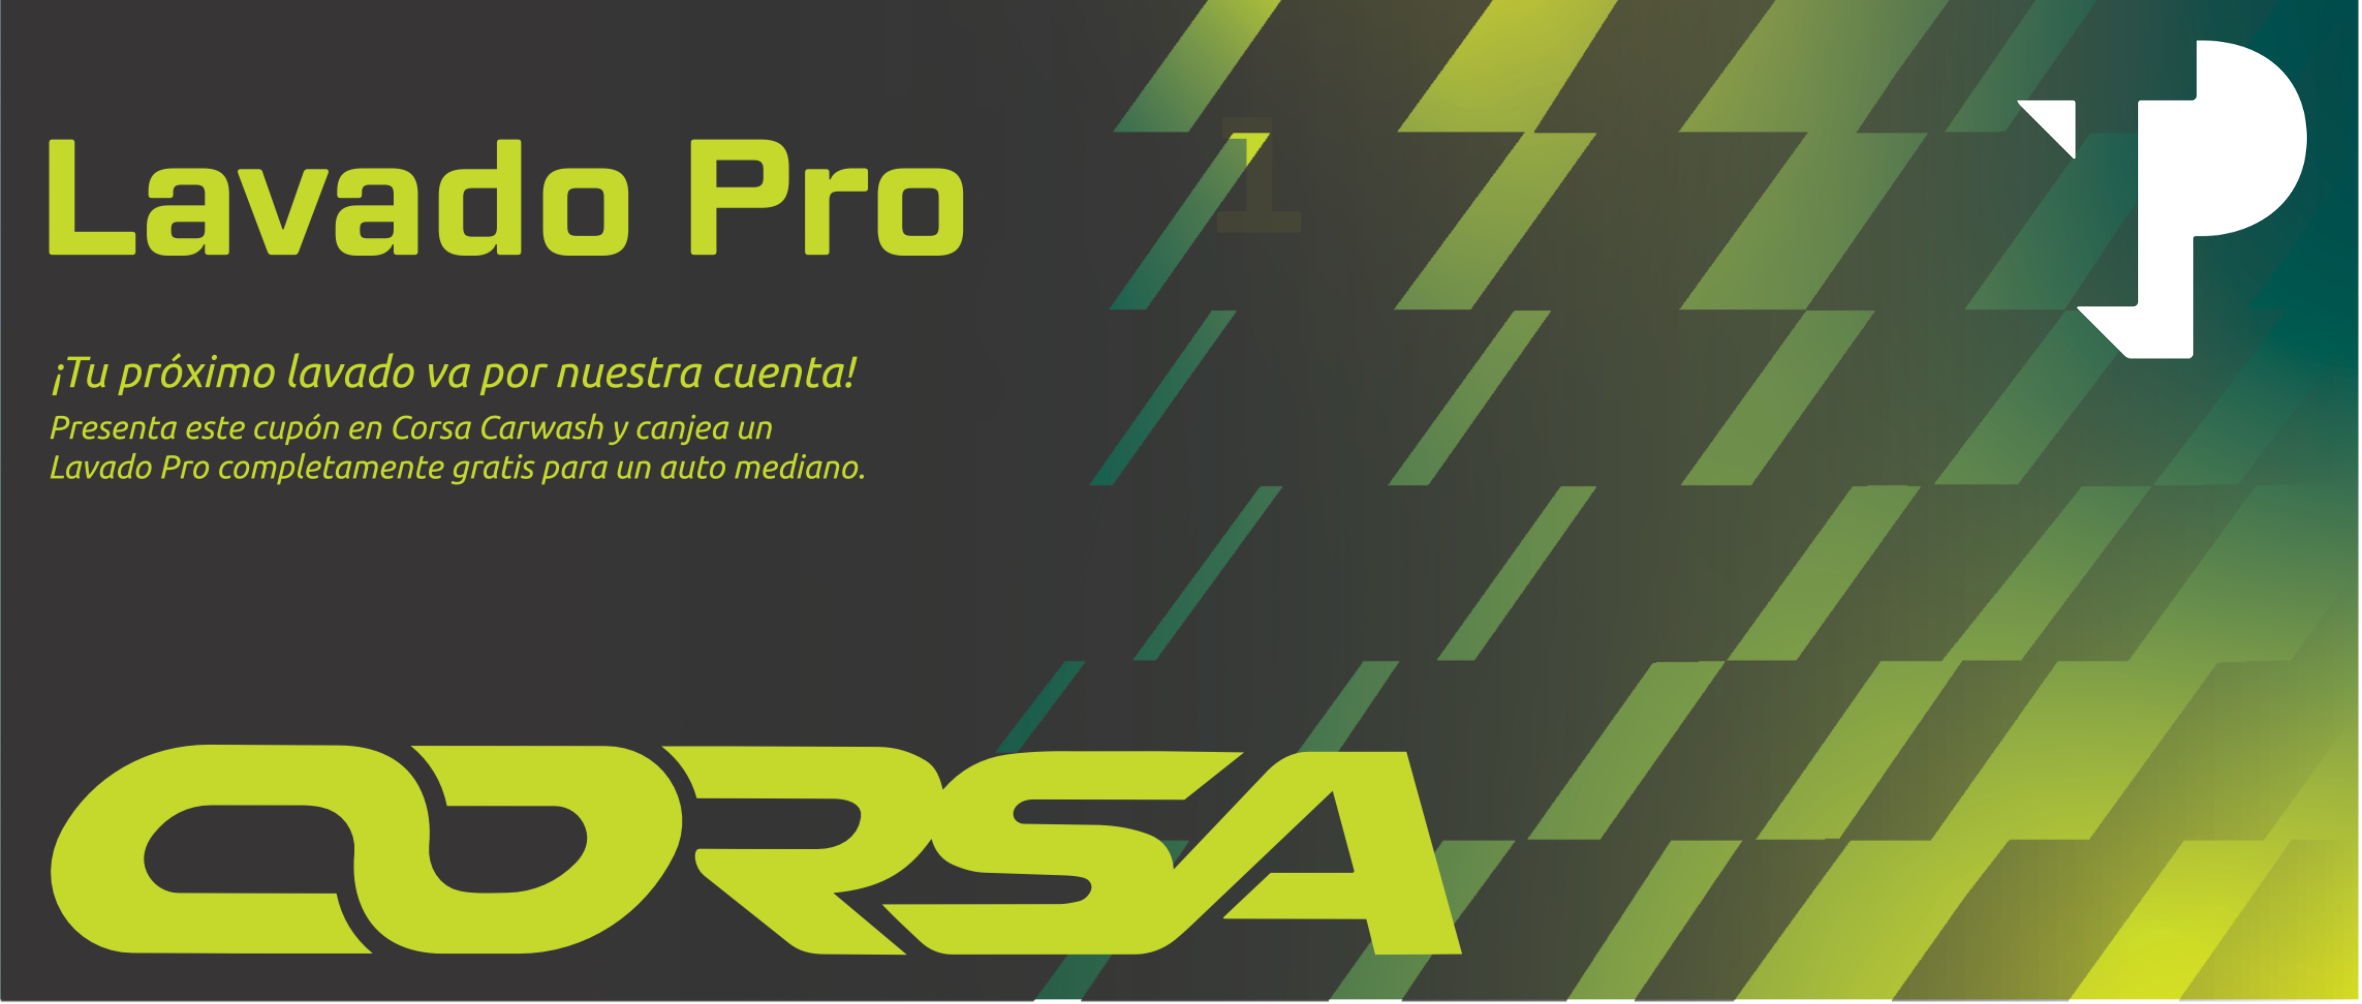
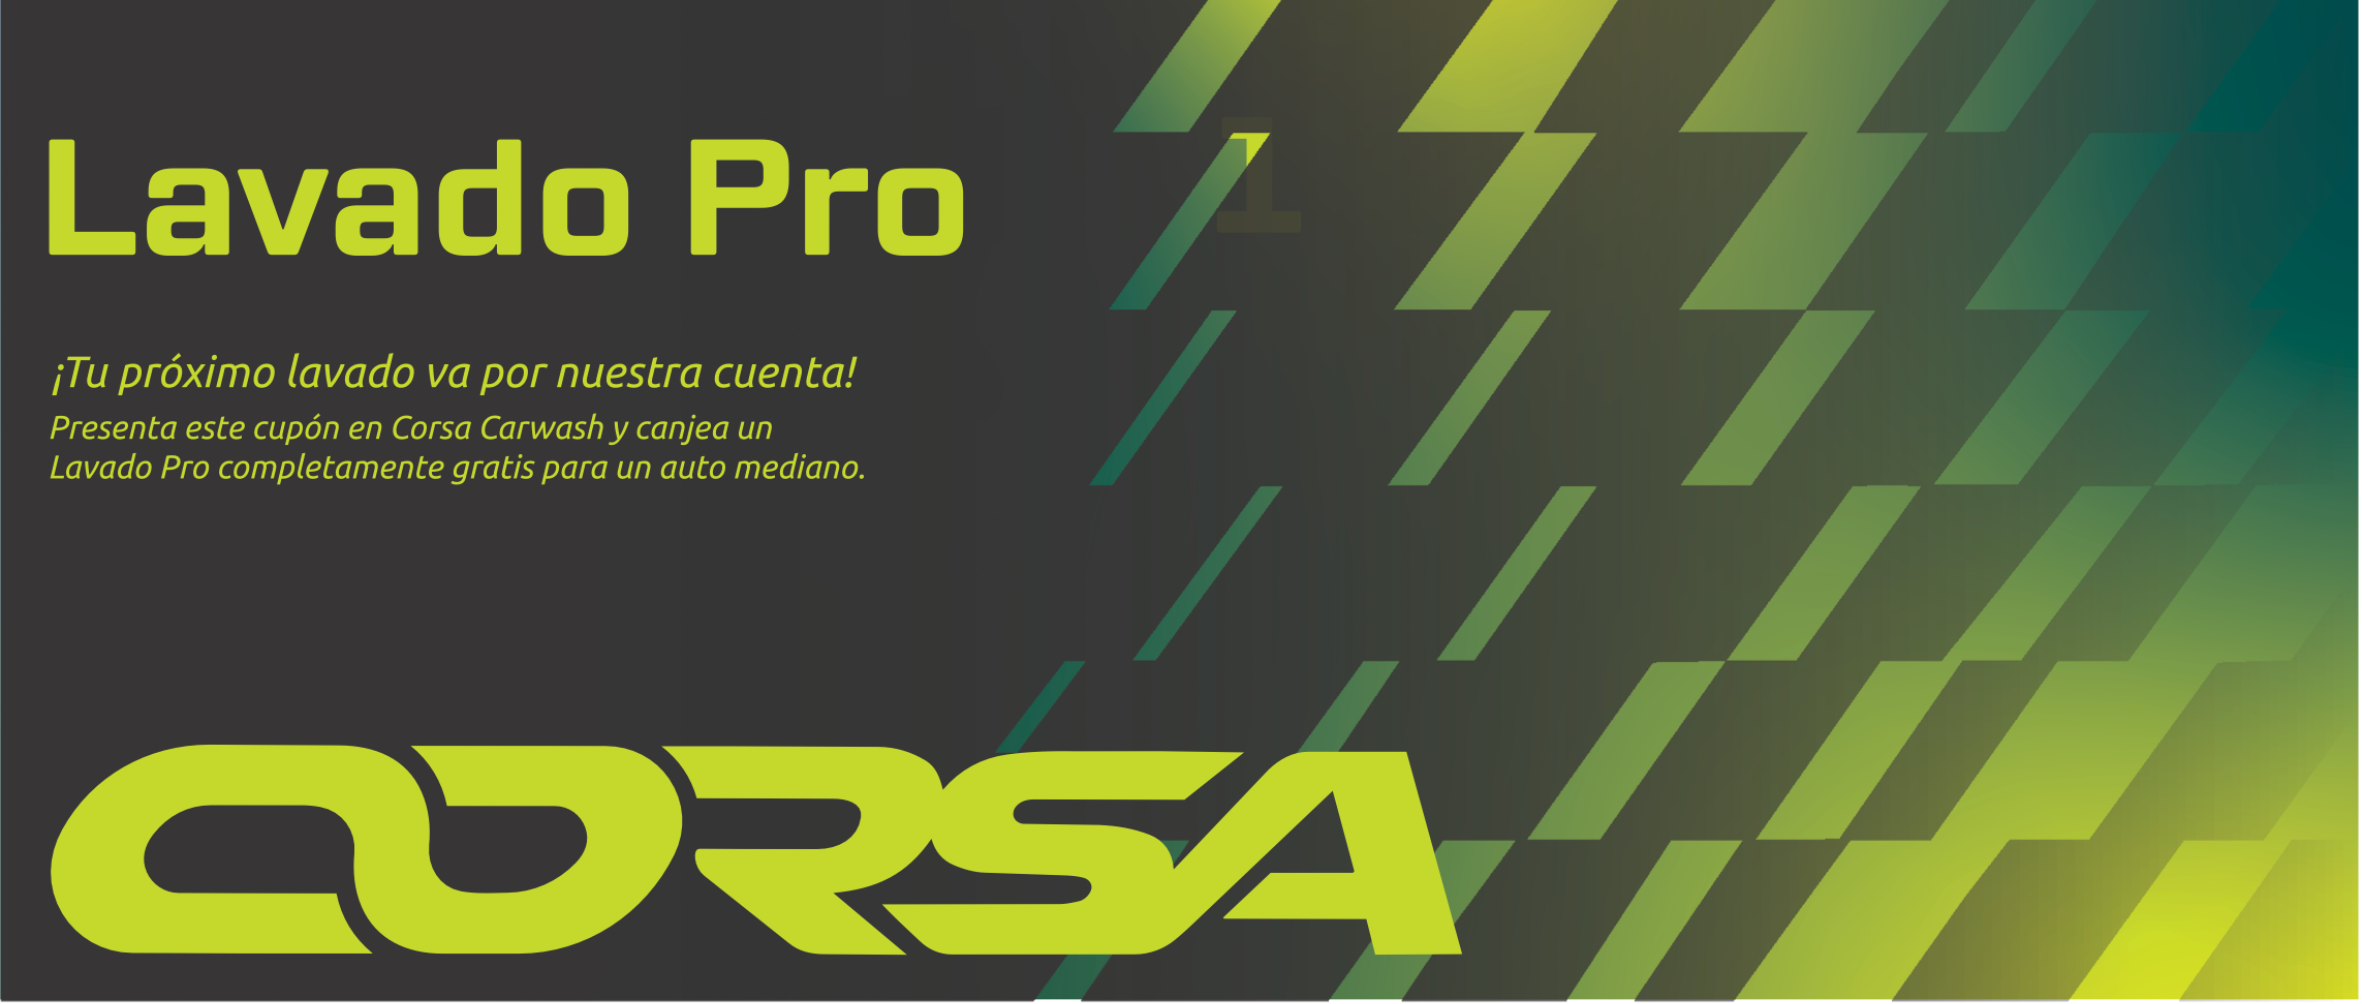
Use the Teleperformance coupon art only on Teleperformance coupons
The art loaded as the coupon background carries the Teleperformance logo and
was printed on every customer's coupons. It moves to
fondo-cupon-teleperformance.png and fondo-cupon.png becomes the generic art
without a customer logo.

The art now follows the batch holder (the beneficiary since 0084) through
customers.fondo_cupon, exposed by v_vouchers and cuponera_cupones_de, so the
POS, the Cupones screen, the portal and the delivery email all agree. Missing
or invalid values fall back to the generic art, so no customer can end up
with another's logo. The migration assigns the TP art only if exactly one
customer matches "teleperformance" and warns otherwise.

Changed region(s): [[0.8345, 0.0309, 0.989, 0.3705]]

diff --git a/src/lib/vouchers/voucherDocument.ts b/src/lib/vouchers/voucherDocument.ts
@@ -15,10 +15,17 @@ import type { VoucherRow } from '../../services/vouchers.service'
 /** Lo mínimo de un cupón para imprimirlo: lo cumplen la fila de Cupones y la del portal. */
 export type CuponImprimible = Pick<VoucherRow,
   'id' | 'code' | 'sequence_number' | 'validation_token' | 'service_name' | 'size' |
-  'includes_aspirado' | 'is_gift' | 'unit_value' | 'customer_name' | 'batch_id'>
+  'includes_aspirado' | 'is_gift' | 'unit_value' | 'customer_name' | 'batch_id'> & {
+  /** Arte propio del titular (0085). Null o ausente = arte genérico. */
+  fondo_cupon?: string | null
+}
 
 /**
- * Arte de fondo del cupón. Va en public/ y cubre la tarjeta entera
+ * Arte GENÉRICO de fondo del cupón: el de todos los clientes, sin logo de
+ * ninguno. Un cliente con arte propio (p. ej. Teleperformance) lo trae en
+ * `fondo_cupon`, que sale de customers.fondo_cupon del titular del lote.
+ *
+ * El arte va en public/ y cubre la tarjeta entera
  * (200 × 85 mm, 2362 × 1004 px a 300 dpi). El arte trae la marca, el servicio
  * y la leyenda, así que el cupón sólo imprime encima lo variable: aspirado y
  * titular a la izquierda, y en el talón una tarjeta blanca con número, QR y
@@ -26,6 +33,16 @@ export type CuponImprimible = Pick<VoucherRow,
  * está, queda el gris oscuro del arte para que el texto claro se siga leyendo.
  */
 export const FONDO_CUPON = '/cupones/fondo-cupon.png'
+
+/**
+ * El fondo de un cupón. La ruta va dentro del CSS, así que sólo se acepta un
+ * archivo de /cupones/ (la base lo exige también); cualquier otra cosa cae al
+ * genérico, nunca al arte de otro cliente.
+ */
+export function fondoDeCupon(v: Pick<CuponImprimible, 'fondo_cupon'>): string {
+  const f = v.fondo_cupon
+  return f && /^\/cupones\/[a-z0-9-]+\.png$/.test(f) ? f : FONDO_CUPON
+}
 
 /**
  * `base` es el origen de la app (https://…). En el navegador sale solo; el
@@ -65,7 +82,7 @@ function qrSrc(data: string): string {
  */
 function voucherCard(v: CuponImprimible, base?: string): string {
   return `
-  <section class="voucher">
+  <section class="voucher" style="background-image: url('${esc(origen(base) + fondoDeCupon(v))}')">
     <div class="left">
       <div class="includes">
         ${v.includes_aspirado
@@ -124,7 +141,9 @@ export function buildVouchersHTML(vouchers: CuponImprimible[], unico = false, op
     height: 85mm; display: flex;
     border-radius: 3mm;
     overflow: hidden; margin-bottom: 4mm;
-    background: #383838 url('${base}${FONDO_CUPON}') center / cover no-repeat;
+    /* La imagen la pone cada cupón (fondoDeCupon): depende del titular. */
+    background-color: #383838; background-position: center;
+    background-size: cover; background-repeat: no-repeat;
   }
   .voucher:last-child { margin-bottom: 0; }
 

diff --git a/api/correo.js b/api/correo.js
@@ -963,6 +963,10 @@ function normalizarResumen(r) {
 
 // src/lib/vouchers/voucherDocument.ts
 var FONDO_CUPON = "/cupones/fondo-cupon.png";
+function fondoDeCupon(v) {
+  const f = v.fondo_cupon;
+  return f && /^\/cupones\/[a-z0-9-]+\.png$/.test(f) ? f : FONDO_CUPON;
+}
 function origen(base) {
   if (base) return base.replace(/\/$/, "");
   return typeof window !== "undefined" ? window.location.origin : "";
@@ -982,7 +986,7 @@ function qrSrc(data) {
 }
 function voucherCard(v, base) {
   return `
-  <section class="voucher">
+  <section class="voucher" style="background-image: url('${esc4(origen(base) + fondoDeCupon(v))}')">
     <div class="left">
       <div class="includes">
         ${v.includes_aspirado ? '<span class="pill">Incluye aspirado de interiores</span>' : '<span class="pill pill-muted">Sin aspirado</span>'}
@@ -1029,7 +1033,9 @@ function buildVouchersHTML(vouchers, unico = false, opciones = {}) {
     height: 85mm; display: flex;
     border-radius: 3mm;
     overflow: hidden; margin-bottom: 4mm;
-    background: #383838 url('${base}${FONDO_CUPON}') center / cover no-repeat;
+    /* La imagen la pone cada cup\xF3n (fondoDeCupon): depende del titular. */
+    background-color: #383838; background-position: center;
+    background-size: cover; background-repeat: no-repeat;
   }
   .voucher:last-child { margin-bottom: 0; }
 
@@ -1752,7 +1758,7 @@ async function correoDeCupones(db, quien, appUrl, entregaId) {
     throw new ErrorHttp(429, "Se alcanz\xF3 el l\xEDmite de correos de hoy. Int\xE9ntalo ma\xF1ana o comun\xEDcate con CORSA.");
   }
   const { data: ids } = await db.from("cuponera_entrega_cupones").select("voucher_id").eq("entrega_id", entregaId);
-  const { data: filas } = await db.from("v_vouchers").select("id, code, sequence_number, validation_token, service_name, size, includes_aspirado, is_gift, unit_value, customer_name, batch_id, status").in("id", (ids ?? []).map((r) => r.voucher_id)).order("sequence_number");
+  const { data: filas } = await db.from("v_vouchers").select("*").in("id", (ids ?? []).map((r) => r.voucher_id)).order("sequence_number");
   const cupones = filas ?? [];
   if (cupones.length === 0) throw new ErrorHttp(409, "La entrega no tiene cupones");
   const empresa = cupones[0].customer_name;

diff --git a/server/correo/handler.ts b/server/correo/handler.ts
@@ -405,7 +405,9 @@ async function correoDeCupones(
 
   const { data: ids } = await db.from('cuponera_entrega_cupones').select('voucher_id').eq('entrega_id', entregaId)
   const { data: filas } = await db.from('v_vouchers')
-    .select('id, code, sequence_number, validation_token, service_name, size, includes_aspirado, is_gift, unit_value, customer_name, batch_id, status')
+    // '*' y no la lista: fondo_cupon llega con la 0085 y pedirlo por nombre
+    // rompería el envío si el código se publica antes que la migración.
+    .select('*')
     .in('id', (ids ?? []).map((r: any) => r.voucher_id))
     .order('sequence_number')
   const cupones = (filas ?? []) as (CuponImprimible & { status: string })[]

diff --git a/src/services/vouchers.service.ts b/src/services/vouchers.service.ts
@@ -41,6 +41,8 @@ export interface VoucherRow {
   /** Quién pagó, sólo si no es el titular (venta con beneficiario, 0084). */
   facturado_customer_id?: string | null
   facturado_a?: string | null
+  /** Arte propio del titular (0085); null = genérico. */
+  fondo_cupon?: string | null
 }
 
 export interface VoucherFilters {

diff --git a/src/services/cuponera.service.ts b/src/services/cuponera.service.ts
@@ -38,6 +38,8 @@ export interface CuponPortal {
   entregado_a: string | null
   entregado_correo: string | null
   entregado_at: string | null
+  /** Arte propio del titular (0085); null = genérico. */
+  fondo_cupon?: string | null
 }
 
 export interface Totales {
